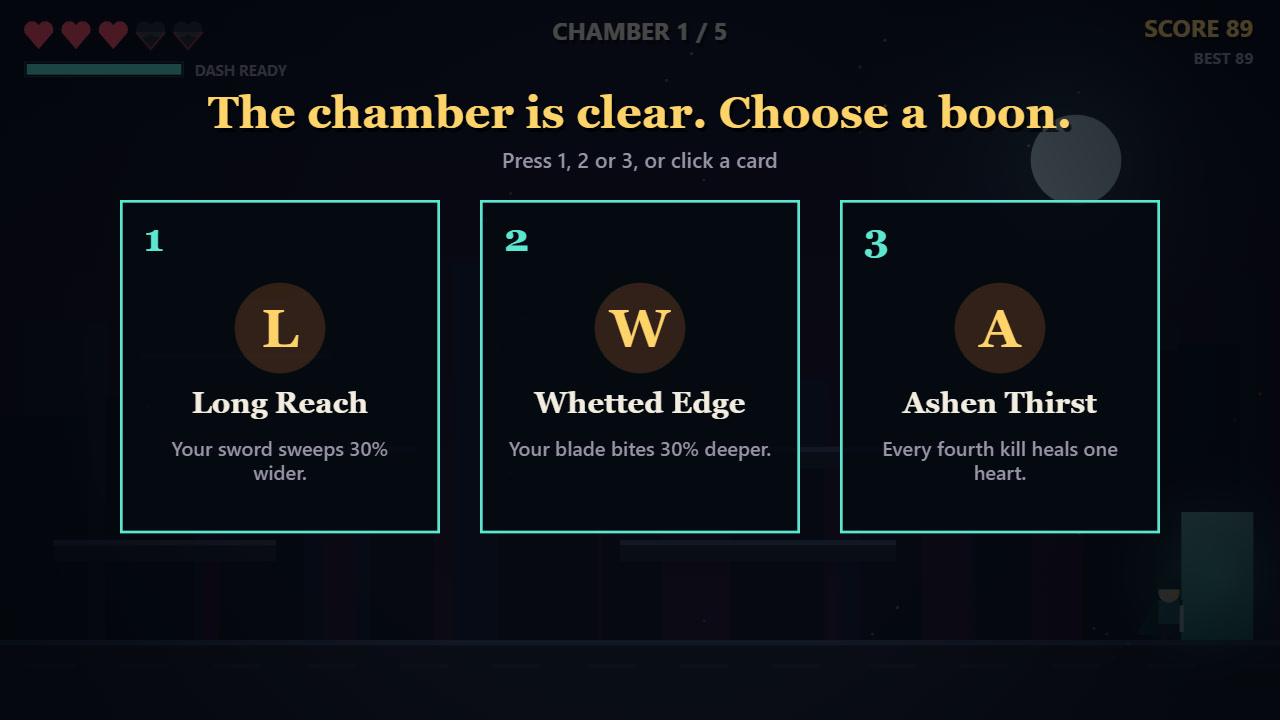
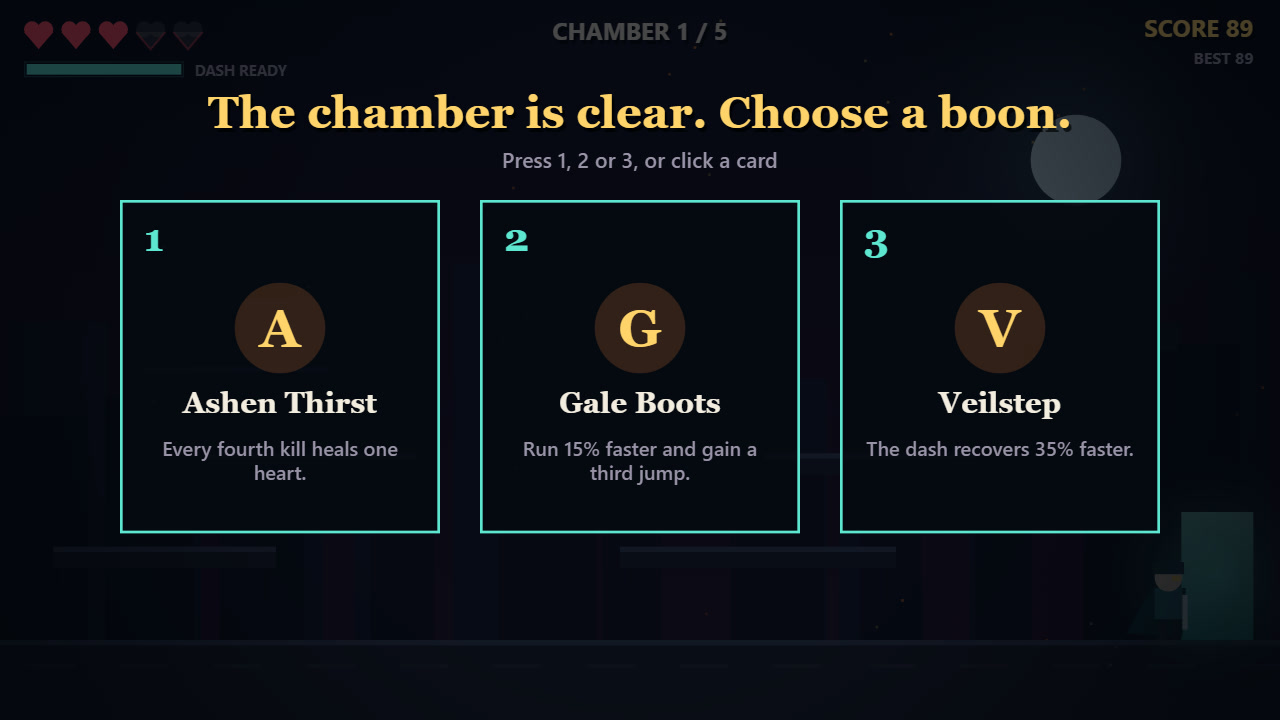
Fix lost key presses, stuck keys and an out of reach ledge row; add damage numbers

diff --git a/game/src/render.js b/game/src/render.js
@@ -3,6 +3,12 @@
 import { COLOR, GROUND_Y, H, PLAYER, W } from './config.js';
 import { DOOR } from './game.js';
 
+/** The hero and the small foes are drawn a little larger than their hit boxes so they read at a glance. */
+const SPRITE = 1.3;
+
+/** Each chamber tints the lower sky differently, so the descent has a sense of depth. */
+const SKY_BOTTOM = [COLOR.skyBottom, '#12304a', '#243a22', '#3a2a14'];
+
 const hash = (n) => { const s = Math.sin(n * 127.1 + 311.7) * 43758.5453; return s - Math.floor(s); };
 
 function rect(ctx, x, y, w, h, fill) {
@@ -23,7 +29,7 @@ function glow(ctx, x, y, r, color, alpha) {
 function drawBackground(ctx, g) {
   const sky = ctx.createLinearGradient(0, 0, 0, H);
   sky.addColorStop(0, COLOR.skyTop);
-  sky.addColorStop(1, g.room && g.room.boss ? '#3a1020' : COLOR.skyBottom);
+  sky.addColorStop(1, g.room && g.room.boss ? '#3a1020' : SKY_BOTTOM[g.room ? g.room.index % SKY_BOTTOM.length : 0]);
   ctx.fillStyle = sky;
   ctx.fillRect(0, 0, W, H);
   const shift = g.room ? g.room.seedShift : 0;
@@ -89,7 +95,7 @@ function drawHero(ctx, g) {
   ctx.globalAlpha = blink ? 0.35 : 1;
   ctx.save();
   ctx.translate(p.x + p.w / 2, p.y + p.h);
-  ctx.scale(p.face, 1);
+  ctx.scale(p.face * SPRITE, SPRITE);
   const run = p.onGround ? Math.sin(g.time * 18) * Math.min(1, Math.abs(p.vx) / 100) : 0;
   ctx.fillStyle = '#10393f';
   ctx.beginPath(); // cloak
@@ -123,7 +129,7 @@ function drawHusk(ctx, f, t) {
   const step = Math.sin(t * 10 + f.x) * 2;
   ctx.save();
   ctx.translate(f.x + f.w / 2, f.y + f.h);
-  ctx.scale(f.dir, 1);
+  ctx.scale(f.dir * SPRITE, SPRITE);
   rect(ctx, -11, -8, 7, 8 + step, '#2b1a3a');
   rect(ctx, 4, -8, 7, 8 - step, '#2b1a3a');
   ctx.fillStyle = '#3d2552';
@@ -136,7 +142,7 @@ function drawHusk(ctx, f, t) {
 function drawArcher(ctx, f) {
   ctx.save();
   ctx.translate(f.x + f.w / 2, f.y + f.h);
-  ctx.scale(f.face, 1);
+  ctx.scale(f.face * SPRITE, SPRITE);
   ctx.fillStyle = '#26324a';
   ctx.beginPath(); ctx.moveTo(-11, 0); ctx.lineTo(-3, -34); ctx.lineTo(7, -34); ctx.lineTo(11, 0); ctx.closePath(); ctx.fill();
   rect(ctx, 2, -28, 5, 3, f.aim ? COLOR.blood : COLOR.teal);
@@ -151,6 +157,7 @@ function drawBat(ctx, f, t) {
   const flap = Math.sin(t * 22 + f.phase) * 9;
   ctx.save();
   ctx.translate(f.x + f.w / 2, f.y + f.h / 2);
+  ctx.scale(SPRITE, SPRITE);
   ctx.fillStyle = f.mode === 'swoop' ? '#7a2342' : '#3a2a52';
   ctx.beginPath(); ctx.moveTo(-4, 0); ctx.lineTo(-24, -10 + flap); ctx.lineTo(-16, 6); ctx.closePath(); ctx.fill();
   ctx.beginPath(); ctx.moveTo(4, 0); ctx.lineTo(24, -10 + flap); ctx.lineTo(16, 6); ctx.closePath(); ctx.fill();
@@ -224,6 +231,19 @@ function drawPickups(ctx, g) {
   }
 }
 
+function drawPops(ctx, g) {
+  ctx.textAlign = 'center';
+  for (const q of g.pops) {
+    ctx.globalAlpha = Math.min(1, q.life * 2.5);
+    ctx.font = `800 ${q.big ? 24 : 17}px Segoe UI, system-ui, Arial, sans-serif`;
+    ctx.fillStyle = 'rgba(0,0,0,0.7)';
+    ctx.fillText(q.text, q.x + 1.5, q.y + 2);
+    ctx.fillStyle = q.big ? COLOR.emberHot : '#ffffff';
+    ctx.fillText(q.text, q.x, q.y);
+  }
+  ctx.globalAlpha = 1;
+}
+
 function drawParticles(ctx, g) {
   for (const q of g.parts) {
     ctx.globalAlpha = Math.max(0, q.life / q.max);
@@ -249,6 +269,7 @@ export function drawWorld(ctx, g) {
     drawShots(ctx, g);
   }
   drawParticles(ctx, g);
+  drawPops(ctx, g);
   ctx.restore();
   const vignette = ctx.createRadialGradient(W / 2, H / 2, H * 0.45, W / 2, H / 2, H * 0.95);
   vignette.addColorStop(0, 'rgba(0,0,0,0)');

diff --git a/game/src/input.js b/game/src/input.js
@@ -1,31 +1,34 @@
 // Keyboard and mouse in, one snapshot per frame out. Edge presses (jump, attack, dash, confirm) are
-// remembered until the snapshot is taken, so a quick tap between two frames is never lost.
+// remembered until the snapshot is taken, so a quick tap between two frames is never lost. Keys are read
+// by physical position (event.code), so holding A and then pressing Shift never leaves a key stuck.
 const KEYS = {
-  left: ['a', 'A', 'ArrowLeft'], right: ['d', 'D', 'ArrowRight'],
-  jump: ['w', 'W', 'ArrowUp', ' '], attack: ['j', 'J', 'z', 'Z'], dash: ['k', 'K', 'x', 'X', 'Shift', 'c', 'C'],
-  confirm: ['Enter', ' '],
+  left: ['KeyA', 'ArrowLeft'], right: ['KeyD', 'ArrowRight'],
+  jump: ['KeyW', 'ArrowUp', 'Space'], attack: ['KeyJ', 'KeyZ'], dash: ['KeyK', 'KeyX', 'KeyC', 'ShiftLeft', 'ShiftRight'],
+  confirm: ['Enter', 'NumpadEnter', 'Space'],
 };
-const GAME_KEYS = new Set(Object.values(KEYS).flat().concat(['1', '2', '3', 'p', 'P', 'Escape', 'm', 'M']));
+const PICKS = { Digit1: 1, Digit2: 2, Digit3: 3, Numpad1: 1, Numpad2: 2, Numpad3: 3 };
+const GAME_KEYS = new Set(Object.values(KEYS).flat().concat(Object.keys(PICKS), ['KeyP', 'Escape', 'KeyM']));
+const blankEdge = () => ({ jump: false, attack: false, dash: false, confirm: false, pick: 0, click: null, aimX: null, pause: false, mute: false });
 
 export function createInput(canvas, toLogical) {
   const held = new Set();
-  let edge = { jump: false, attack: false, dash: false, confirm: false, pick: 0, click: null, aimX: null, pause: false, mute: false };
+  let edge = blankEdge();
 
-  const isKey = (name, key) => KEYS[name].includes(key);
+  const isKey = (name, code) => KEYS[name].includes(code);
 
   window.addEventListener('keydown', (e) => {
-    if (GAME_KEYS.has(e.key)) e.preventDefault();
+    if (GAME_KEYS.has(e.code)) e.preventDefault();
     if (e.repeat) return;
-    held.add(e.key);
-    if (isKey('jump', e.key)) edge.jump = true;
-    if (isKey('attack', e.key)) edge.attack = true;
-    if (isKey('dash', e.key)) edge.dash = true;
-    if (isKey('confirm', e.key)) edge.confirm = true;
-    if (e.key === '1' || e.key === '2' || e.key === '3') edge.pick = Number(e.key);
-    if (e.key === 'p' || e.key === 'P' || e.key === 'Escape') edge.pause = true;
-    if (e.key === 'm' || e.key === 'M') edge.mute = true;
+    held.add(e.code);
+    if (isKey('jump', e.code)) edge.jump = true;
+    if (isKey('attack', e.code)) edge.attack = true;
+    if (isKey('dash', e.code)) edge.dash = true;
+    if (isKey('confirm', e.code)) edge.confirm = true;
+    if (PICKS[e.code]) edge.pick = PICKS[e.code];
+    if (e.code === 'KeyP' || e.code === 'Escape') edge.pause = true;
+    if (e.code === 'KeyM') edge.mute = true;
   });
-  window.addEventListener('keyup', (e) => held.delete(e.key));
+  window.addEventListener('keyup', (e) => held.delete(e.code));
   window.addEventListener('blur', () => held.clear());
 
   canvas.addEventListener('mousedown', (e) => {
@@ -50,7 +53,7 @@ export function createInput(canvas, toLogical) {
         confirm: edge.confirm, pick: edge.pick, click: edge.click, aimX: edge.aimX,
         pause: edge.pause, mute: edge.mute,
       };
-      edge = { jump: false, attack: false, dash: false, confirm: false, pick: 0, click: null, aimX: null, pause: false, mute: false };
+      edge = blankEdge();
       return out;
     },
   };

diff --git a/game/src/game.js b/game/src/game.js
@@ -14,7 +14,7 @@ const overlap = (a, b) => a.x < b.x + b.w && a.x + a.w > b.x && a.y < b.y + b.h 
 
 export function createGame(seed = 1) {
   return {
-    seed, rng: makeRng(seed), state: 'title', time: 0, best: 0, events: [], parts: [], shake: 0, freeze: 0, endT: 0, runs: 0,
+    seed, rng: makeRng(seed), state: 'title', time: 0, best: 0, events: [], parts: [], pops: [], shake: 0, freeze: 0, endT: 0, runs: 0,
     roomIndex: 0, room: null, player: createPlayer(), foes: [], shots: [], pickups: [], offers: [], taken: [], score: 0, kills: 0,
     roomTime: 0, runTime: 0, doorOpen: false, victoryT: 0,
   };
@@ -30,6 +30,7 @@ export function startRun(g, seed = g.seed + g.runs) {
   g.runTime = 0;
   g.victoryT = 0;
   g.parts.length = 0;
+  g.pops.length = 0;
   loadRoom(g, 0);
   g.state = 'playing';
   g.events.push('start');
@@ -123,6 +124,7 @@ function damageFoe(g, f, dmg, dir) {
     else f.x = Math.max(f.platform.x, Math.min(f.platform.x + f.platform.w - f.w, f.x + dir * 14));
   }
   burst(g, f.x + f.w / 2, f.y + f.h / 2, '#ffe2a8', 7, 220);
+  g.pops.push({ x: f.x + f.w / 2, y: f.y - 4, text: String(Math.round(dmg)), life: 0.7, big: dmg >= 16 });
   g.events.push('hit');
   g.freeze = Math.max(g.freeze, f.hp <= 0 ? 0.07 : 0.04);
   if (f.hp <= 0) killFoe(g, f);
@@ -162,6 +164,12 @@ function updatePickups(g, dt) {
 }
 
 function updateParts(g, dt) {
+  for (let i = g.pops.length - 1; i >= 0; i--) {
+    const q = g.pops[i];
+    q.life -= dt;
+    q.y -= 46 * dt;
+    if (q.life <= 0) g.pops.splice(i, 1);
+  }
   for (let i = g.parts.length - 1; i >= 0; i--) {
     const q = g.parts[i];
     q.life -= dt;
@@ -230,7 +238,17 @@ export function step(g, input, dt) {
     pickUpgrade(g, input);
     return;
   }
-  if (g.freeze > 0) { g.freeze -= dt; return; }
+  // Hit stop freezes the action, but a press made during it is kept for the first step after it.
+  if (g.freeze > 0) {
+    g.freeze -= dt;
+    g.buffered = g.buffered || {};
+    for (const key of ['jumpPressed', 'attackPressed', 'dashPressed']) if (input[key]) g.buffered[key] = true;
+    return;
+  }
+  if (g.buffered) {
+    input = { ...input, jumpPressed: input.jumpPressed || Boolean(g.buffered.jumpPressed), attackPressed: input.attackPressed || Boolean(g.buffered.attackPressed), dashPressed: input.dashPressed || Boolean(g.buffered.dashPressed) };
+    g.buffered = null;
+  }
 
   g.roomTime += dt;
   g.runTime += dt;

diff --git a/game/src/main.js b/game/src/main.js
@@ -66,16 +66,22 @@ function play() {
   window.addEventListener('keydown', unlock);
   canvas.addEventListener('mousedown', unlock);
 
+  // Presses that arrive on a frame with no simulation step (a 144 Hz screen) wait here for the next step.
+  let carry = null;
+  const merge = (a, b) => (a ? { ...b, jumpPressed: a.jumpPressed || b.jumpPressed, attackPressed: a.attackPressed || b.attackPressed, dashPressed: a.dashPressed || b.dashPressed, confirm: a.confirm || b.confirm, pick: b.pick || a.pick, click: b.click || a.click, aimX: b.aimX ?? a.aimX } : b);
+
   function frame(now) {
     acc = Math.min(0.1, acc + (now - last) / 1000);
     last = now;
     const snap = input.snapshot();
     if (snap.mute) audio.toggleMute();
     if (snap.pause && g.state === 'playing') paused = !paused;
+    carry = paused ? null : merge(carry, snap);
     if (!paused) {
       let first = true;
       while (acc >= STEP) {
-        step(g, first ? snap : { ...snap, jumpPressed: false, attackPressed: false, dashPressed: false, confirm: false, pick: 0, click: null }, STEP);
+        step(g, first ? carry : { ...carry, jumpPressed: false, attackPressed: false, dashPressed: false, confirm: false, pick: 0, click: null }, STEP);
+        if (first) carry = null;
         first = false;
         acc -= STEP;
         for (const ev of g.events) {

diff --git a/game/src/level.js b/game/src/level.js
@@ -1,7 +1,7 @@
 // Builds one chamber: the floor, a few floating ledges, and which foe stands on which ledge.
 import { FOES, GROUND_Y, POOLS, ROOMS, W } from './config.js';
 
-const ROWS = [405, 335, 265]; // heights a ledge can sit at, low to high; each step up is within one jump
+const ROWS = [410, 340, 275]; // heights a ledge can sit at, low to high; the top row is within a double jump of the floor
 
 /** A chamber for descent step `index` (0 based). The last one is the boss chamber. */
 export function buildRoom(index, rng) {

diff --git a/game/src/ui.js b/game/src/ui.js
@@ -56,6 +56,7 @@ export function drawHud(ctx, g) {
     ctx.fillRect(18 + i * 26, 68, 22, 22);
     text(ctx, up, 29 + i * 26, 84, 14, COLOR.teal, 'center', '800');
   });
+  if (g.roomIndex === 0 && g.roomTime < 9 && g.state === 'playing') shadowed(ctx, 'J strike   K dash   W jump, again in the air   Three strikes in a row land a heavy blow', W / 2, H - 16, 15, COLOR.dim, 'center', '600');
   const boss = g.foes.find((f) => f.kind === 'warden');
   if (boss) {
     panel(ctx, W / 2 - 220, H - 44, 440, 22, 0.7);
